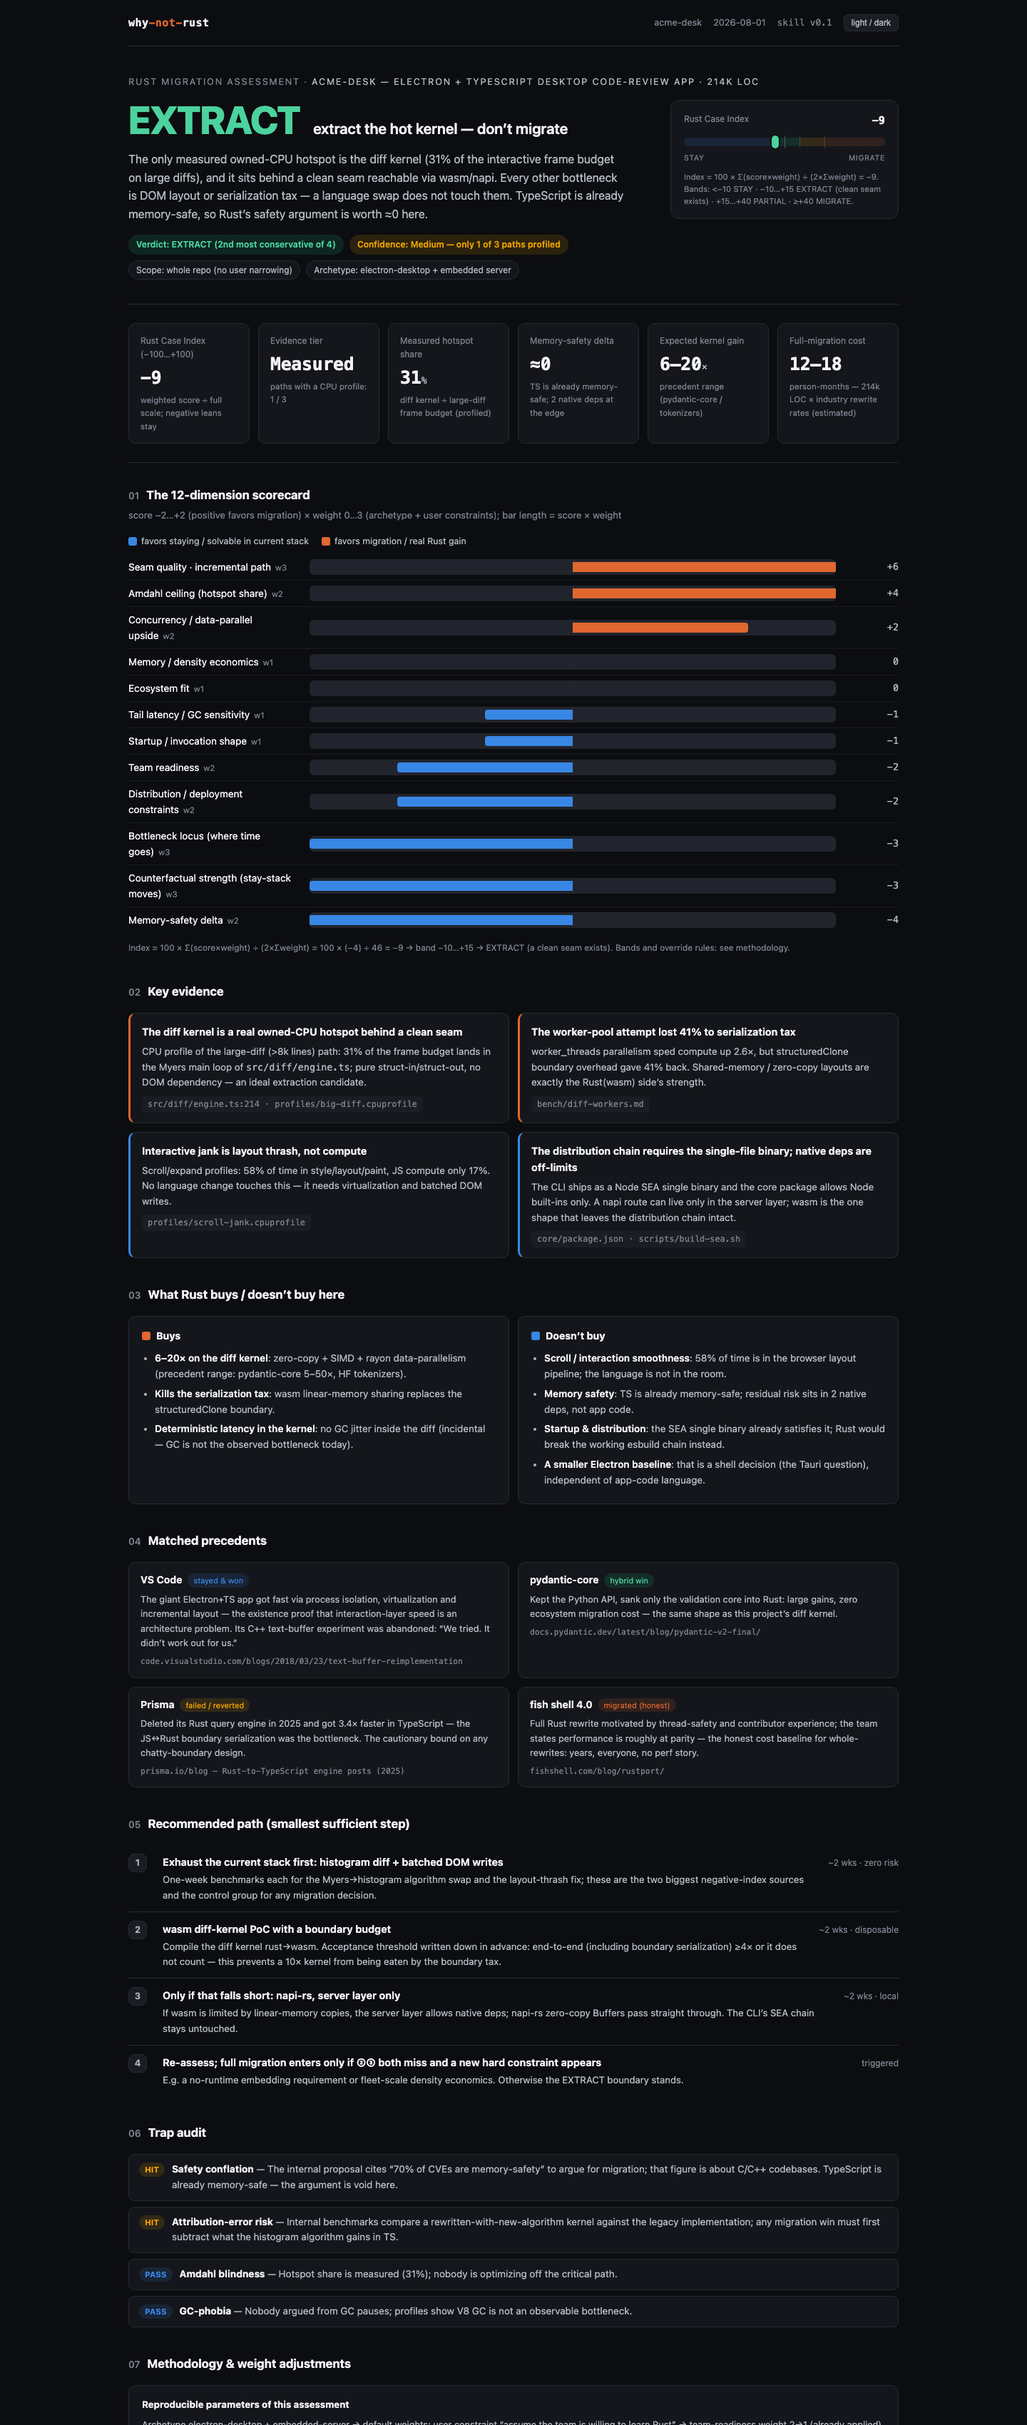
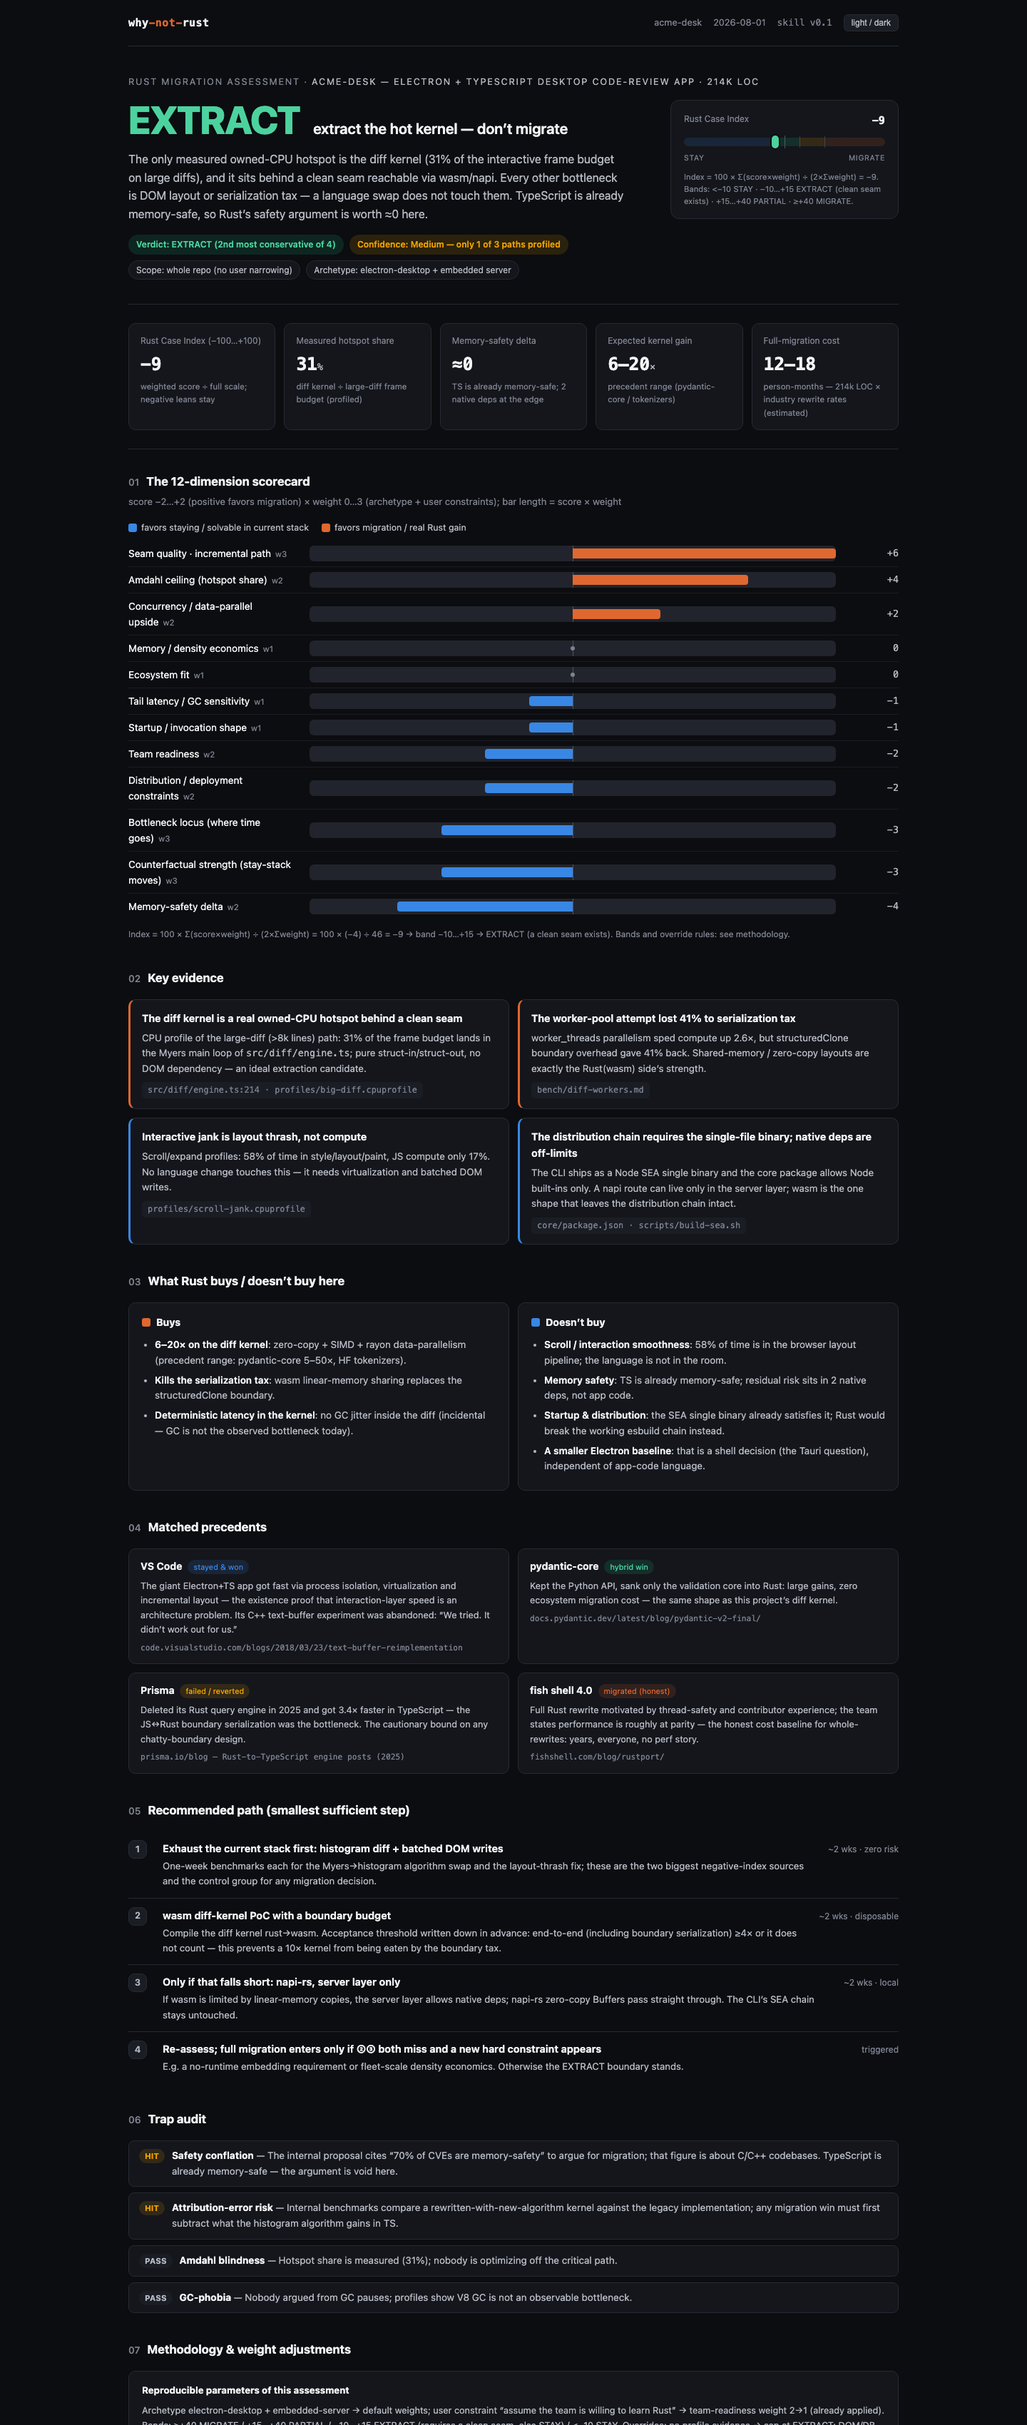
fix(template): correct bar-width scale, zero-dot markers, stronger axis, neutral PASS badge, html bg; style contract updates from design review

diff --git a/examples/sample-report.html b/examples/sample-report.html
@@ -33,7 +33,7 @@
   :root[data-theme="dark"] body.v-extract { --verdict-ink: #4cd29e; }
 
   * { box-sizing: border-box; margin: 0; }
-  html { font-size: 16px; }
+  html { font-size: 16px; background: var(--page); }
   body {
     background: var(--page); color: var(--ink);
     font: 400 0.9375rem/1.6 system-ui, -apple-system, "Segoe UI", "PingFang SC", "Noto Sans CJK SC", sans-serif;
@@ -94,10 +94,11 @@
   .dim .name .w { color: var(--ink-3); font-size: .72rem; margin-left: 6px; }
   .dim .impact { text-align: right; font-size: .84rem; color: var(--ink-2); }
   .barbox { position: relative; height: 22px; background: var(--track); border-radius: 6px; overflow: hidden; }
-  .barbox .axis { position: absolute; left: 50%; top: 0; bottom: 0; width: 1px; background: var(--hairline); }
+  .barbox .axis { position: absolute; left: 50%; top: 0; bottom: 0; width: 1px; background: var(--ink-3); opacity: .5; }
   .barbox .fill { position: absolute; top: 4px; bottom: 4px; }
   .fill.pro { left: 50%; background: var(--rust); border-radius: 0 4px 4px 0; }
   .fill.con { right: 50%; background: var(--stay); border-radius: 4px 0 0 4px; }
+  .fill.zerodot { left: calc(50% - 3px); top: 50%; bottom: auto; width: 6px !important; height: 6px; margin-top: -3px; border-radius: 999px; background: var(--ink-3); }
   .dims-note { color: var(--ink-3); font-size: .74rem; margin-top: 12px; }
 
   .cards { display: grid; grid-template-columns: 1fr 1fr; gap: 12px; margin-top: 16px; }
@@ -140,7 +141,7 @@
   .trap { display: flex; gap: 10px; align-items: baseline; font-size: .85rem; color: var(--ink-2); background: var(--surface); border: 1px solid var(--hairline); border-radius: 8px; padding: 10px 14px; }
   .trap .st { font-size: .7rem; font-weight: 700; padding: 1px 8px; border-radius: 999px; white-space: nowrap; }
   .st.hit { background: var(--amber-tint); color: var(--amber); }
-  .st.ok { background: var(--stay-tint); color: var(--stay); }
+  .st.ok { background: var(--surface-2); color: var(--ink-2); }
   .trap b { color: var(--ink); }
 
   .appendix { margin-top: 16px; background: var(--surface); border: 1px solid var(--hairline); border-radius: 10px; padding: 16px 18px; font-size: .8rem; color: var(--ink-2); }
@@ -198,7 +199,6 @@
 
 <div class="tiles">
   <div class="tile"><div class="lb">Rust Case Index (−100…+100)</div><div class="v mono">−9<span class="unit"></span></div><div class="s">weighted score ÷ full scale; negative leans stay</div></div>
-  <div class="tile"><div class="lb">Evidence tier</div><div class="v mono">Measured<span class="unit"></span></div><div class="s">paths with a CPU profile: 1 / 3</div></div>
   <div class="tile"><div class="lb">Measured hotspot share</div><div class="v mono">31<span class="unit">%</span></div><div class="s">diff kernel ÷ large-diff frame budget (profiled)</div></div>
   <div class="tile"><div class="lb">Memory-safety delta</div><div class="v mono">≈0<span class="unit"></span></div><div class="s">TS is already memory-safe; 2 native deps at the edge</div></div>
   <div class="tile"><div class="lb">Expected kernel gain</div><div class="v mono">6–20<span class="unit">×</span></div><div class="s">precedent range (pydantic-core / tokenizers)</div></div>
@@ -213,18 +213,18 @@
     <span class="key"><i style="background:var(--rust)"></i>favors migration / real Rust gain</span>
   </div>
   <div class="dims">
-    <div class="dim"><div class="name">Seam quality · incremental path<span class="w">w3</span></div><div class="barbox"><span class="axis"></span><span class="fill pro" style="width:100%"></span></div><div class="impact mono">+6</div></div>
-    <div class="dim"><div class="name">Amdahl ceiling (hotspot share)<span class="w">w2</span></div><div class="barbox"><span class="axis"></span><span class="fill pro" style="width:66.7%"></span></div><div class="impact mono">+4</div></div>
-    <div class="dim"><div class="name">Concurrency / data-parallel upside<span class="w">w2</span></div><div class="barbox"><span class="axis"></span><span class="fill pro" style="width:33.3%"></span></div><div class="impact mono">+2</div></div>
-    <div class="dim"><div class="name">Memory / density economics<span class="w">w1</span></div><div class="barbox"><span class="axis"></span><span class="fill " style="width:0%"></span></div><div class="impact mono">0</div></div>
-    <div class="dim"><div class="name">Ecosystem fit<span class="w">w1</span></div><div class="barbox"><span class="axis"></span><span class="fill " style="width:0%"></span></div><div class="impact mono">0</div></div>
-    <div class="dim"><div class="name">Tail latency / GC sensitivity<span class="w">w1</span></div><div class="barbox"><span class="axis"></span><span class="fill con" style="width:16.7%"></span></div><div class="impact mono">−1</div></div>
-    <div class="dim"><div class="name">Startup / invocation shape<span class="w">w1</span></div><div class="barbox"><span class="axis"></span><span class="fill con" style="width:16.7%"></span></div><div class="impact mono">−1</div></div>
-    <div class="dim"><div class="name">Team readiness<span class="w">w2</span></div><div class="barbox"><span class="axis"></span><span class="fill con" style="width:33.3%"></span></div><div class="impact mono">−2</div></div>
-    <div class="dim"><div class="name">Distribution / deployment constraints<span class="w">w2</span></div><div class="barbox"><span class="axis"></span><span class="fill con" style="width:33.3%"></span></div><div class="impact mono">−2</div></div>
-    <div class="dim"><div class="name">Bottleneck locus (where time goes)<span class="w">w3</span></div><div class="barbox"><span class="axis"></span><span class="fill con" style="width:50%"></span></div><div class="impact mono">−3</div></div>
-    <div class="dim"><div class="name">Counterfactual strength (stay-stack moves)<span class="w">w3</span></div><div class="barbox"><span class="axis"></span><span class="fill con" style="width:50%"></span></div><div class="impact mono">−3</div></div>
-    <div class="dim"><div class="name">Memory-safety delta<span class="w">w2</span></div><div class="barbox"><span class="axis"></span><span class="fill con" style="width:66.7%"></span></div><div class="impact mono">−4</div></div>
+    <div class="dim"><div class="name">Seam quality · incremental path<span class="w">w3</span></div><div class="barbox"><span class="axis"></span><span class="fill pro" style="width:50%"></span></div><div class="impact mono">+6</div></div>
+    <div class="dim"><div class="name">Amdahl ceiling (hotspot share)<span class="w">w2</span></div><div class="barbox"><span class="axis"></span><span class="fill pro" style="width:33.3%"></span></div><div class="impact mono">+4</div></div>
+    <div class="dim"><div class="name">Concurrency / data-parallel upside<span class="w">w2</span></div><div class="barbox"><span class="axis"></span><span class="fill pro" style="width:16.7%"></span></div><div class="impact mono">+2</div></div>
+    <div class="dim"><div class="name">Memory / density economics<span class="w">w1</span></div><div class="barbox"><span class="axis"></span><span class="fill zerodot" style="width:0%"></span></div><div class="impact mono">0</div></div>
+    <div class="dim"><div class="name">Ecosystem fit<span class="w">w1</span></div><div class="barbox"><span class="axis"></span><span class="fill zerodot" style="width:0%"></span></div><div class="impact mono">0</div></div>
+    <div class="dim"><div class="name">Tail latency / GC sensitivity<span class="w">w1</span></div><div class="barbox"><span class="axis"></span><span class="fill con" style="width:8.3%"></span></div><div class="impact mono">−1</div></div>
+    <div class="dim"><div class="name">Startup / invocation shape<span class="w">w1</span></div><div class="barbox"><span class="axis"></span><span class="fill con" style="width:8.3%"></span></div><div class="impact mono">−1</div></div>
+    <div class="dim"><div class="name">Team readiness<span class="w">w2</span></div><div class="barbox"><span class="axis"></span><span class="fill con" style="width:16.7%"></span></div><div class="impact mono">−2</div></div>
+    <div class="dim"><div class="name">Distribution / deployment constraints<span class="w">w2</span></div><div class="barbox"><span class="axis"></span><span class="fill con" style="width:16.7%"></span></div><div class="impact mono">−2</div></div>
+    <div class="dim"><div class="name">Bottleneck locus (where time goes)<span class="w">w3</span></div><div class="barbox"><span class="axis"></span><span class="fill con" style="width:25%"></span></div><div class="impact mono">−3</div></div>
+    <div class="dim"><div class="name">Counterfactual strength (stay-stack moves)<span class="w">w3</span></div><div class="barbox"><span class="axis"></span><span class="fill con" style="width:25%"></span></div><div class="impact mono">−3</div></div>
+    <div class="dim"><div class="name">Memory-safety delta<span class="w">w2</span></div><div class="barbox"><span class="axis"></span><span class="fill con" style="width:33.3%"></span></div><div class="impact mono">−4</div></div>
   </div>
   <div class="dims-note">Index = 100 × Σ(score×weight) ÷ (2×Σweight) = 100 × (−4) ÷ 46 = −9 → band −10…+15 → EXTRACT (a clean seam exists). Bands and override rules: see methodology.</div>
 </section>

diff --git a/assets/report-template.html b/assets/report-template.html
@@ -10,7 +10,9 @@
   - Replace every {{TOKEN}}. Duplicate blocks between BEGIN/END repeat markers.
   - Delete optional blocks you don't use. Leave the CSS untouched except the
     verdict class on <body> (v-stay | v-extract | v-partial | v-migrate).
-  - Bar widths: |score × weight| ÷ 6 × 100, capped at 100, as % of the half-axis.
+  - Bar widths: DIM_WIDTH = |score × weight| ÷ 6 × 50  (percent of the FULL track;
+    the axis sits at 50%, so ±6 exactly reaches the track edge). Impact 0 rows use
+    <span class="fill zerodot"></span> instead of a bar.
   - Gauge needle: left: calc({{INDEX_PCT}}% - 5px)  where INDEX_PCT = (index+100)/2.
   - Translate visible UI labels to the report language using the table in
     report-style.md; keep verdict words (STAY/EXTRACT/PARTIAL/MIGRATE) in English.
@@ -44,7 +46,7 @@
   :root[data-theme="dark"] body.v-extract { --verdict-ink: #4cd29e; }
 
   * { box-sizing: border-box; margin: 0; }
-  html { font-size: 16px; }
+  html { font-size: 16px; background: var(--page); }
   body {
     background: var(--page); color: var(--ink);
     font: 400 0.9375rem/1.6 system-ui, -apple-system, "Segoe UI", "PingFang SC", "Noto Sans CJK SC", sans-serif;
@@ -105,10 +107,11 @@
   .dim .name .w { color: var(--ink-3); font-size: .72rem; margin-left: 6px; }
   .dim .impact { text-align: right; font-size: .84rem; color: var(--ink-2); }
   .barbox { position: relative; height: 22px; background: var(--track); border-radius: 6px; overflow: hidden; }
-  .barbox .axis { position: absolute; left: 50%; top: 0; bottom: 0; width: 1px; background: var(--hairline); }
+  .barbox .axis { position: absolute; left: 50%; top: 0; bottom: 0; width: 1px; background: var(--ink-3); opacity: .5; }
   .barbox .fill { position: absolute; top: 4px; bottom: 4px; }
   .fill.pro { left: 50%; background: var(--rust); border-radius: 0 4px 4px 0; }
   .fill.con { right: 50%; background: var(--stay); border-radius: 4px 0 0 4px; }
+  .fill.zerodot { left: calc(50% - 3px); top: 50%; bottom: auto; width: 6px !important; height: 6px; margin-top: -3px; border-radius: 999px; background: var(--ink-3); }
   .dims-note { color: var(--ink-3); font-size: .74rem; margin-top: 12px; }
 
   .cards { display: grid; grid-template-columns: 1fr 1fr; gap: 12px; margin-top: 16px; }
@@ -151,7 +154,7 @@
   .trap { display: flex; gap: 10px; align-items: baseline; font-size: .85rem; color: var(--ink-2); background: var(--surface); border: 1px solid var(--hairline); border-radius: 8px; padding: 10px 14px; }
   .trap .st { font-size: .7rem; font-weight: 700; padding: 1px 8px; border-radius: 999px; white-space: nowrap; }
   .st.hit { background: var(--amber-tint); color: var(--amber); }
-  .st.ok { background: var(--stay-tint); color: var(--stay); }
+  .st.ok { background: var(--surface-2); color: var(--ink-2); }
   .trap b { color: var(--ink); }
 
   .appendix { margin-top: 16px; background: var(--surface); border: 1px solid var(--hairline); border-radius: 10px; padding: 16px 18px; font-size: .8rem; color: var(--ink-2); }
@@ -224,7 +227,7 @@
     <span class="key"><i style="background:var(--rust)"></i>{{L_KEY_RUST}}</span>
   </div>
   <div class="dims">
-    <!-- BEGIN REPEAT dim (all 12, sorted by impact descending; width% = |score×weight|/6×100, class pro if impact>0, con if <0, no fill if 0) -->
+    <!-- BEGIN REPEAT dim (all 12, sorted by impact descending; width% = |score×weight|/6×50 of the FULL track; class pro if impact>0, con if <0; impact 0 → replace the fill span with <span class="fill zerodot"></span> and no width) -->
     <div class="dim"><div class="name">{{DIM_NAME}}<span class="w">w{{DIM_WEIGHT}}</span></div><div class="barbox"><span class="axis"></span><span class="fill {{DIM_DIR}}" style="width:{{DIM_WIDTH}}%"></span></div><div class="impact mono">{{DIM_IMPACT}}</div></div>
     <!-- END REPEAT dim -->
   </div>

diff --git a/references/report-style.md b/references/report-style.md
@@ -35,14 +35,25 @@ en ` (measure first)` — via `{{VERDICT_QUALIFIER}}`; otherwise fill it with ""
 ## The two charts and their math
 
 - **Gauge (hero):** `INDEX_PCT = (index + 100) / 2`. Needle sits at
-  `calc({{INDEX_PCT}}% - 5px)`. Band split in the track background is fixed
-  (STAY 45% / EXTRACT 12.5% / PARTIAL 12.5% / MIGRATE 30%) matching the bands
-  −100…−10…+15…+40…+100. `{{GAUGE_NOTE}}` = one line: formula + band meaning.
+  `calc({{INDEX_PCT}}% - 5px)`. Band split in the track background and the three
+  boundary ticks are fixed (STAY 45% / EXTRACT 12.5% / PARTIAL 12.5% / MIGRATE
+  30%) matching the bands −100…−10…+15…+40…+100. `{{GAUGE_NOTE}}` = formula with
+  the numbers plugged in + band meaning; **if the index sits within 3 points of a
+  band boundary, say so explicitly** (e.g. "−9 — 1 point above the STAY line"),
+  because near-boundary is the most decision-relevant fact a gauge can carry.
 - **Scorecard bars:** rows sorted by impact descending (most pro-Rust on top).
-  `DIM_WIDTH = |score × weight| ÷ 6 × 100` (cap 100), `DIM_DIR` = `pro` if
-  impact > 0, `con` if < 0; omit the `.fill` span entirely when impact = 0.
-  `DIM_IMPACT` shows the signed product (`+6`, `−3`, `0`) with a true minus sign
-  (U+2212). Every row keeps its weight chip `w0–w3`.
+  `DIM_WIDTH = |score × weight| ÷ 6 × 50` — percent of the **full** track; the
+  axis is at 50%, so ±6 exactly touches the track edge. Getting this wrong is
+  the one rendering bug that silently lies (a doubled width gets clipped and
+  ±6 becomes indistinguishable from ±3) — recompute one row by hand after
+  filling. `DIM_DIR` = `pro` if impact > 0, `con` if < 0; **impact = 0 rows
+  replace the bar span with `<span class="fill zerodot"></span>`** — a measured
+  zero must be visibly different from an empty row. `DIM_IMPACT` shows the
+  signed product (`+6`, `−3`, `0`) with a true minus sign (U+2212). Every row
+  keeps its weight chip `w0–w3`.
+  Deliberate deviation from label-at-the-tip charting: impact values live in a
+  fixed right-hand column — the scorecard is a *table with embedded bars*, so
+  the values align vertically for scanning. Do not move them onto the bars.
 
 Data-ink rules (inherited from the palette validation): color appears only on
 marks (bars, needle, swatches, left borders, tag tints) — **all text wears text
@@ -64,15 +75,19 @@ gate list (reuse `.cards` with one card per question), keep 05–07.
 - **Hero why:** ≤ 3 sentences; must name the decisive evidence and the decisive
   constraint. No hedging ("might", "perhaps") — confidence is expressed by the
   confidence chip, not by mushy prose.
-- **Tiles:** 4–6. Tile 1 is always the Index. Every tile note says how the number
-  was derived (`profiled`, `estimated`, `precedent range`). Estimated numbers use
-  ranges, never point values.
+- **Tiles:** 4–6. Tile 1 is always the Index; the rest are **magnitude facts**
+  (hotspot shares, expected gains, costs) — judgment facts (confidence, evidence
+  tier) already live in the hero chips, don't duplicate them as tiles. Every tile
+  note says how the number was derived (`profiled`, `estimated`, `precedent
+  range`). Estimated numbers use ranges, never point values. Never let a value's
+  unit wrap: long units go into the note line.
 - **Findings:** 3–6 cards, each anchored `file:line` or artifact name in the
   `.ref` chip. Balance is not required — direction classes must reflect content.
 - **Precedents:** 3–5 from `case-library.md` only, tag class per outcome
   (`stayed`/`hybrid`/`moved`/`failed`), each with its URL in the `.src` line.
-  Never cite a case that isn't in the library (add it to the library first, with
-  a source).
+  Tag text ≤ 6 CJK chars / ≤ 14 latin chars — nuance goes in the body, not the
+  chip. Never cite a case that isn't in the library (add it to the library
+  first, with a source).
 - **Path steps:** each has a cost estimate and, where measurable, an explicit
   acceptance threshold inside the body text.
 - **Traps:** always render at least the four core checks (safety-conflation,
@@ -113,6 +128,12 @@ gate list (reuse `.cards` with one card per question), keep 05–07.
 | Precedent tags | stayed & won / hybrid win / migrated / failed-reverted | 留守获胜 / 热核提取 / 整体迁移 / 失败-回退 |
 
 Other languages: translate with the same register (engineering-report, terse).
+
+**CJK punctuation discipline (zh reports):** full-width `，；：（）` inside Chinese
+prose — never half-width `,;:` squeezed between hanzi; interpunct `·` (U+00B7) for
+term separators (「真·owned-CPU」); half-width colon only in `key: value` chips
+where the key is Latin. Keep line length ≤ ~42 chars by trusting the template's
+max-widths — don't fight them.
 
 ## QA before delivering
 

diff --git a/SKILL.md b/SKILL.md
@@ -94,8 +94,9 @@ Copy `assets/report-template.html`, fill every `{{TOKEN}}`, duplicate the marked
 repeatable blocks, delete unused optional blocks, translate labels to the report
 language. Follow `report-style.md` exactly — same palette, same section order; the
 uniform look across projects and users is a feature. Verify: every bar width =
-|score×weight| ÷ 6 × 100% of the half-axis; numbers in the HTML match the scores;
-no `{{` left. Then give the chat TL;DR: verdict + index + confidence + 3 decisive
+|score×weight| ÷ 6 × 50 (% of the full track — recompute one row by hand); numbers
+in the HTML match the scores; no `{{` left. Then give the chat TL;DR: verdict +
+index + confidence + 3 decisive
 bullets + report path. If an artifact-delivery tool exists in this environment,
 also deliver the file.
 
